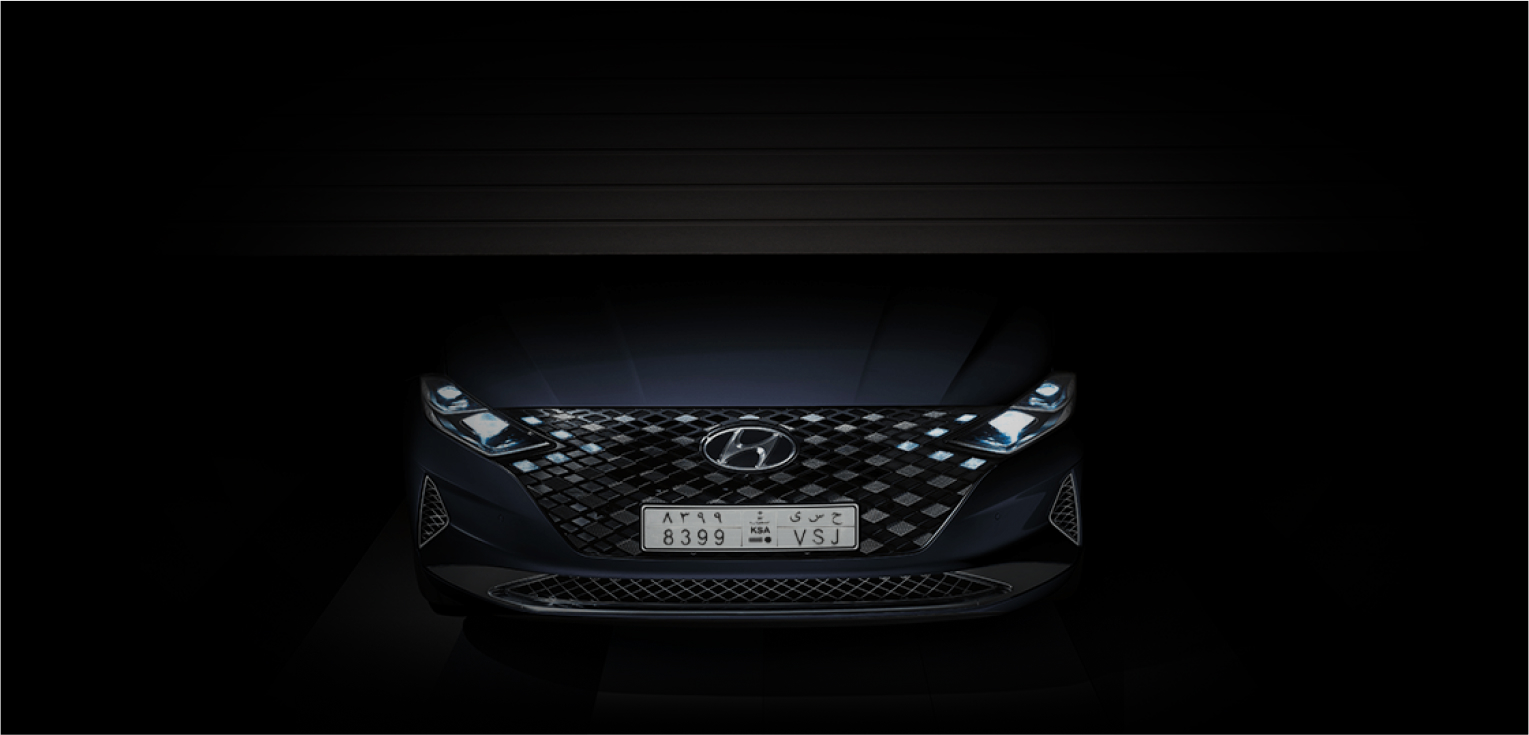
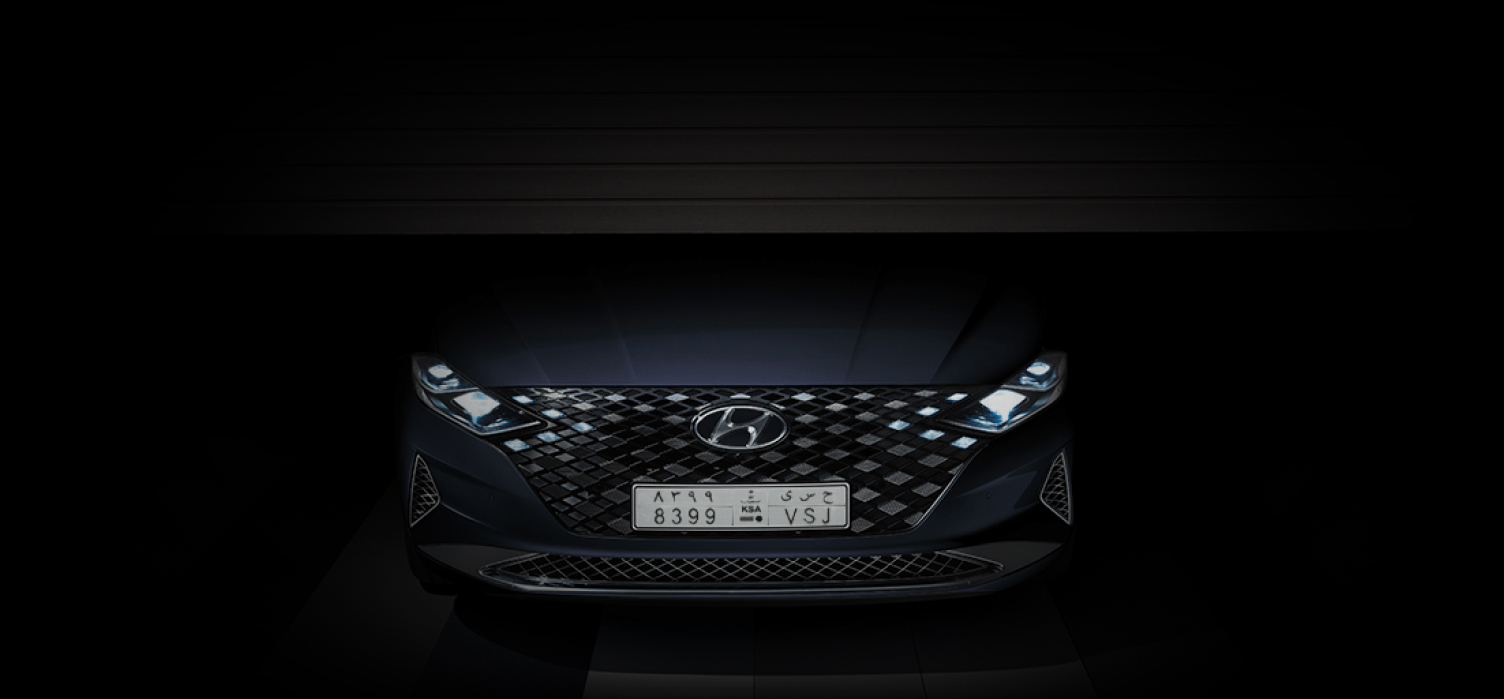
Added adaptation of the block with a timer

diff --git a/Hyudai/css/style.min.css b/Hyudai/css/style.min.css
@@ -1,1 +1,1 @@
-@font-face{font-family:HyundaiHead;font-display:swap;src:url(../fonts/HyundaiSansHeadKRBold.woff) format("woff"),url(../fonts/HyundaiSansHeadKRBold.woff2) format("woff2");font-weight:700;font-style:normal}@font-face{font-family:HyundaiHead;font-display:swap;src:url(../fonts/HyundaiSansHeadKRLight.woff) format("woff"),url(../fonts/HyundaiSansHeadKRLight.woff2) format("woff2");font-weight:300;font-style:normal}@font-face{font-family:HyundaiHead;font-display:swap;src:url(../fonts/HyundaiSansHeadKRRegular.woff) format("woff"),url(../fonts/HyundaiSansHeadKRRegular.woff2) format("woff2");font-weight:400;font-style:normal}@font-face{font-family:HyundaiHead;font-display:swap;src:url(../fonts/HyundaiSansHeadKRMedium.woff) format("woff"),url(../fonts/HyundaiSansHeadKRMedium.woff2) format("woff2");font-weight:500;font-style:normal}@font-face{font-family:HyundaiText;font-display:swap;src:url(../fonts/HyundaiSansTextKRBold.woff) format("woff"),url(../fonts/HyundaiSansTextKRBold.woff2) format("woff2");font-weight:700;font-style:normal}@font-face{font-family:HyundaiText;font-display:swap;src:url(../fonts/HyundaiSansTextKRMedium.woff) format("woff"),url(../fonts/HyundaiSansTextKRMedium.woff2) format("woff2");font-weight:500;font-style:normal}@font-face{font-family:HyundaiText;font-display:swap;src:url(../fonts/HyundaiSansTextKRRegular.woff) format("woff"),url(../fonts/HyundaiSansTextKRRegular.woff2) format("woff2");font-weight:400;font-style:normal}*{padding:0;margin:0;border:0}*,:after,:before{-webkit-box-sizing:border-box;box-sizing:border-box}:active,:focus{outline:0}a:active,a:focus{outline:0}aside,footer,header,nav{display:block}body,html{height:100%;width:100%;font-size:100%;line-height:1;font-size:14px;-ms-text-size-adjust:100%;-moz-text-size-adjust:100%;-webkit-text-size-adjust:100%}button,input,textarea{font-family:inherit}input::-ms-clear{display:none}button{cursor:pointer}button::-moz-focus-inner{padding:0;border:0}a,a:visited{text-decoration:none}a:hover{text-decoration:none}ul li{list-style:none}img{vertical-align:top}h1,h2,h3,h4,h5,h6{font-size:inherit;font-weight:400}.title{font-family:HyundaiHead;font-size:50px;font-weight:700;line-height:62px}.subtitle{font-family:HyundaiHead;font-size:24px;font-weight:400;line-height:30px}body{font-family:HyundaiText,sans-serif;font-size:18px;line-height:21px;color:#000;overflow-x:hidden}.container{max-width:1120px;margin:0 auto;padding:0 20px;position:relative}.container__big{max-width:1240px}.header{padding:20px 0}.header__row{display:-webkit-box;display:-ms-flexbox;display:flex;-webkit-box-pack:justify;-ms-flex-pack:justify;justify-content:space-between;-webkit-box-align:center;-ms-flex-align:center;align-items:center}.language{display:-webkit-box;display:-ms-flexbox;display:flex;text-transform:uppercase;font-weight:500}.language__ru{margin:0 10px;cursor:pointer}.language__ru::after{content:'|';width:100%;height:100%;margin-left:10px;color:#d8d8d8;cursor:auto}.language__ar{cursor:pointer}.language__active{color:#1385b7}.hero{position:relative;background-color:#032d5d}.hero video{min-width:100%;min-height:320px;width:100%;height:auto;-o-object-fit:cover;object-fit:cover}.hero__text{position:absolute;top:30px;width:100%;color:#fff}.hero__title{padding-bottom:8px}.hero__callback{position:absolute;bottom:80px;right:80px;padding:11px 14px 11px 20px;background-color:#127eb2;border-radius:100px}.hero__callback img{width:29px;height:auto}.sticker{position:absolute;bottom:80px;padding:15px;font-size:14px;line-height:21px;background-color:#032d5d;color:#fff}.sticker__name{font-weight:500;font-size:18px;line-height:23px}.sticker__price span{font-weight:500;font-size:26px;line-height:33px}.main-form{padding:30px 0;background-color:#032d5d}.main-form__form{display:-webkit-box;display:-ms-flexbox;display:flex;-webkit-box-pack:justify;-ms-flex-pack:justify;justify-content:space-between;-webkit-box-align:end;-ms-flex-align:end;align-items:flex-end}.main-form__form input,.main-form__form select{color:#fff;background-color:#032d5d;padding-bottom:10px;border-bottom:1px solid rgba(255,255,255,.1);font-size:16px;line-height:21px}.main-form__form input::-webkit-input-placeholder{color:#fff;font-size:16px;line-height:21px}.main-form__form input::-moz-placeholder{color:#fff;font-size:16px;line-height:21px}.main-form__form input:-ms-input-placeholder{color:#fff;font-size:16px;line-height:21px}.main-form__form input::-ms-input-placeholder{color:#fff;font-size:16px;line-height:21px}.main-form__form input::placeholder{color:#fff;font-size:16px;line-height:21px}.main-form__form select{padding-right:120px;-webkit-appearance:none;-moz-appearance:none;appearance:none;background:#032d5d url(../img/icons/arrow.png) right center no-repeat}.main-form__form input[type=submit]{padding:15px 40px;color:#032d5d;background-color:#fff}.location{display:none}.features{padding:50px 0;background-color:#f6f3f2}.features__row{display:-webkit-box;display:-ms-flexbox;display:flex;-webkit-box-pack:justify;-ms-flex-pack:justify;justify-content:space-between;-webkit-box-align:center;-ms-flex-align:center;align-items:center}.features__row .features__item:nth-child(1){margin-right:10px}.features__item{position:relative;width:100%;padding-left:40px;margin-bottom:25px;text-align:left}.features__item::before{content:'';position:absolute;top:50%;left:0;width:24px;height:24px;-webkit-transform:translateY(-50%);-ms-transform:translateY(-50%);transform:translateY(-50%);background:url(../img/icons/icons.svg#check) center no-repeat}.premiere{padding-top:90px;padding-bottom:110px;background-color:#000}.premiere__title{color:#fff;text-align:center}.premiere__title-bottom{background:-o-linear-gradient(45deg,#80059f,#fe7139),-o-linear-gradient(135deg,#e4072a,#fe7139);background:linear-gradient(45deg,#80059f,#fe7139),linear-gradient(-45deg,#e4072a,#fe7139);-webkit-background-clip:text;-webkit-text-fill-color:transparent}.premiere__timer{min-height:734px;background:url(../img/timer-bg.jpg) center no-repeat}.timer{display:-webkit-box;display:-ms-flexbox;display:flex;-webkit-box-pack:center;-ms-flex-pack:center;justify-content:center;-webkit-box-align:start;-ms-flex-align:start;align-items:flex-start;padding-top:75px;font-size:86px;font-weight:700;color:#fff}.timer div:nth-child(n){position:relative;padding:0 37px}.timer div:nth-child(n)::after{content:'';position:absolute;top:50%;right:0;width:11px;height:43px;-webkit-transform:translateY(-50%);-ms-transform:translateY(-50%);transform:translateY(-50%);background:url(../img/icons/icons.svg#colon) center/200% no-repeat}.timer div:nth-child(n)::before{position:absolute;bottom:-50px;left:50%;-webkit-transform:translateX(-50%);-ms-transform:translateX(-50%);transform:translateX(-50%);font-size:18px;font-weight:400;color:rgba(255,255,255,.5)}.timer__days::before{content:'days'}.timer__hours::before{content:'hours'}.timer__min::before{content:'min'}.timer__sec::before{content:'sec'}.timer__sec::after{display:none}.text-premiere__row{font-size:24px;line-height:30px;text-align:center;color:#fff}.text-premiere__row span{color:#7e8183;line-height:62px}.text-premiere__link{margin-left:60px;color:#fff;border-bottom:2px solid #1385b7}.exterior{padding:100px 0;text-align:center}.exterior__title{margin-bottom:10px}.exterior__subtitle{margin:0 auto 50px;max-width:760px}.exterior-container{width:100%;height:auto}.exterior-slide{max-width:1080px;width:100%;text-align:center;font-size:18px;background:#ccc}.exterior-slide img{height:auto;width:100%}.exterior-scrollbar{margin:30px auto 0;max-width:1080px;width:93%;height:4px;background:#e2dfde}.exterior-scrollbar-drag{background:#032d5d}.interior{padding:100px 0;background-color:#f6f3f2}.interior__title{margin-bottom:10px;text-align:center}.interior__subtitle{max-width:760px;margin:0 auto 50px;text-align:center}.interior__slider-top{width:100%;display:-webkit-box;display:-ms-flexbox;display:flex;-webkit-box-pack:center;-ms-flex-pack:center;justify-content:center}.interior__slider-top .image-slider{position:relative;display:inline-block;overflow:hidden}.interior__slider-top .image-slider div{position:absolute;top:0;bottom:0;left:0;width:50%;overflow:hidden;max-width:100%}.interior__slider-top .image-slider input[type=range]{position:absolute;top:50%;width:100%;margin:0;-webkit-transform:translateY(-50%);-ms-transform:translateY(-50%);transform:translateY(-50%);overflow:hidden;-webkit-appearance:none;background-color:transparent}.interior__slider-top .image-slider input[type=range]::-webkit-slider-thumb{width:64px;-webkit-appearance:none;height:64px;cursor:ew-resize;background:#032d5d url(../img/icons/slider.png) center no-repeat;border-radius:100%}.interior__slider-top .image-slider>img{display:block;-webkit-user-select:none;-moz-user-select:none;-ms-user-select:none;user-select:none;max-width:100%}@media (max-width:1080px){.interior__slider-top .image-slider{width:768px}.interior__slider-top .image-slider div img{width:768px}}@media (max-width:768px){.title{font-size:28px;line-height:30px}.subtitle{font-size:15px;line-height:24px}.language__ru{margin:0 5px}.language__ru::after{content:'/';color:#000;margin-left:5px}.language{font-size:14px}.hero__callback{display:none}.sticker{font-size:12px;padding-bottom:0}.sticker__name{font-size:14px;line-height:18px}.sticker__price span{font-size:24px;line-height:30px}.sticker{position:static;text-align:center}.main-form__form{-webkit-box-orient:vertical;-webkit-box-direction:normal;-ms-flex-direction:column;flex-direction:column;-webkit-box-align:inherit;-ms-flex-align:inherit;align-items:inherit}.main-form__form input:nth-child(1){margin-top:0}.main-form__form input,.main-form__form select{margin-top:30px}.features{padding:40px 0}.features__row .features__item:nth-child(1){margin-right:0}.features__row{-webkit-box-orient:vertical;-webkit-box-direction:normal;-ms-flex-direction:column;flex-direction:column}.features__item{font-size:16px}.premiere{display:none}.exterior{padding:70px 0}.exterior__subtitle{margin-bottom:40px}.exterior-container{width:93%}.interior{padding:55px 0}.interior__slider-top .image-slider{width:480px}.interior__slider-top .image-slider div img{width:480px}.interior__slider-top .image-slider input[type=range]::-webkit-slider-thumb{width:50px;height:50px}}@media (max-width:480px){.interior__slider-top .image-slider{width:320px}.interior__slider-top .image-slider div img{width:320px}.interior__slider-top .image-slider input[type=range]::-webkit-slider-thumb{width:40px;height:40px}}
+@font-face{font-family:HyundaiHead;font-display:swap;src:url(../fonts/HyundaiSansHeadKRBold.woff) format("woff"),url(../fonts/HyundaiSansHeadKRBold.woff2) format("woff2");font-weight:700;font-style:normal}@font-face{font-family:HyundaiHead;font-display:swap;src:url(../fonts/HyundaiSansHeadKRLight.woff) format("woff"),url(../fonts/HyundaiSansHeadKRLight.woff2) format("woff2");font-weight:300;font-style:normal}@font-face{font-family:HyundaiHead;font-display:swap;src:url(../fonts/HyundaiSansHeadKRRegular.woff) format("woff"),url(../fonts/HyundaiSansHeadKRRegular.woff2) format("woff2");font-weight:400;font-style:normal}@font-face{font-family:HyundaiHead;font-display:swap;src:url(../fonts/HyundaiSansHeadKRMedium.woff) format("woff"),url(../fonts/HyundaiSansHeadKRMedium.woff2) format("woff2");font-weight:500;font-style:normal}@font-face{font-family:HyundaiText;font-display:swap;src:url(../fonts/HyundaiSansTextKRBold.woff) format("woff"),url(../fonts/HyundaiSansTextKRBold.woff2) format("woff2");font-weight:700;font-style:normal}@font-face{font-family:HyundaiText;font-display:swap;src:url(../fonts/HyundaiSansTextKRMedium.woff) format("woff"),url(../fonts/HyundaiSansTextKRMedium.woff2) format("woff2");font-weight:500;font-style:normal}@font-face{font-family:HyundaiText;font-display:swap;src:url(../fonts/HyundaiSansTextKRRegular.woff) format("woff"),url(../fonts/HyundaiSansTextKRRegular.woff2) format("woff2");font-weight:400;font-style:normal}*{padding:0;margin:0;border:0}*,:after,:before{-webkit-box-sizing:border-box;box-sizing:border-box}:active,:focus{outline:0}a:active,a:focus{outline:0}aside,footer,header,nav{display:block}body,html{height:100%;width:100%;font-size:100%;line-height:1;font-size:14px;-ms-text-size-adjust:100%;-moz-text-size-adjust:100%;-webkit-text-size-adjust:100%}button,input,textarea{font-family:inherit}input::-ms-clear{display:none}button{cursor:pointer}button::-moz-focus-inner{padding:0;border:0}a,a:visited{text-decoration:none}a:hover{text-decoration:none}ul li{list-style:none}img{vertical-align:top}h1,h2,h3,h4,h5,h6{font-size:inherit;font-weight:400}.title{font-family:HyundaiHead;font-size:50px;font-weight:700;line-height:62px}.subtitle{font-family:HyundaiHead;font-size:24px;font-weight:400;line-height:30px}body{font-family:HyundaiText,sans-serif;font-size:18px;line-height:21px;color:#000;overflow-x:hidden}.container{max-width:1120px;margin:0 auto;padding:0 20px;position:relative}.container__big{max-width:1240px}.header{padding:20px 0}.header__row{display:-webkit-box;display:-ms-flexbox;display:flex;-webkit-box-pack:justify;-ms-flex-pack:justify;justify-content:space-between;-webkit-box-align:center;-ms-flex-align:center;align-items:center}.language{display:-webkit-box;display:-ms-flexbox;display:flex;text-transform:uppercase;font-weight:500}.language__ru{margin:0 10px;cursor:pointer}.language__ru::after{content:'|';width:100%;height:100%;margin-left:10px;color:#d8d8d8;cursor:auto}.language__ar{cursor:pointer}.language__active{color:#1385b7}.hero{position:relative;background-color:#032d5d}.hero video{min-width:100%;min-height:320px;width:100%;height:auto;-o-object-fit:cover;object-fit:cover}.hero__text{position:absolute;top:30px;width:100%;color:#fff}.hero__title{padding-bottom:8px}.hero__callback{position:absolute;bottom:80px;right:80px;padding:11px 14px 11px 20px;background-color:#127eb2;border-radius:100px}.hero__callback img{width:29px;height:auto}.sticker{position:absolute;bottom:80px;padding:15px;font-size:14px;line-height:21px;background-color:#032d5d;color:#fff}.sticker__name{font-weight:500;font-size:18px;line-height:23px}.sticker__price span{font-weight:500;font-size:26px;line-height:33px}.main-form{padding:30px 0;background-color:#032d5d}.main-form__form{display:-webkit-box;display:-ms-flexbox;display:flex;-webkit-box-pack:justify;-ms-flex-pack:justify;justify-content:space-between;-webkit-box-align:end;-ms-flex-align:end;align-items:flex-end}.main-form__form input,.main-form__form select{color:#fff;background-color:#032d5d;padding-bottom:10px;border-bottom:1px solid rgba(255,255,255,.1);font-size:16px;line-height:21px}.main-form__form input::-webkit-input-placeholder{color:#fff;font-size:16px;line-height:21px}.main-form__form input::-moz-placeholder{color:#fff;font-size:16px;line-height:21px}.main-form__form input:-ms-input-placeholder{color:#fff;font-size:16px;line-height:21px}.main-form__form input::-ms-input-placeholder{color:#fff;font-size:16px;line-height:21px}.main-form__form input::placeholder{color:#fff;font-size:16px;line-height:21px}.main-form__form select{padding-right:120px;-webkit-appearance:none;-moz-appearance:none;appearance:none;background:#032d5d url(../img/icons/arrow.png) right center no-repeat}.main-form__form input[type=submit]{padding:15px 40px;color:#032d5d;background-color:#fff}.location{display:none}.features{padding:50px 0;background-color:#f6f3f2}.features__row{display:-webkit-box;display:-ms-flexbox;display:flex;-webkit-box-pack:justify;-ms-flex-pack:justify;justify-content:space-between;-webkit-box-align:center;-ms-flex-align:center;align-items:center}.features__row .features__item:nth-child(1){margin-right:10px}.features__item{position:relative;width:100%;padding-left:40px;margin-bottom:25px;text-align:left}.features__item::before{content:'';position:absolute;top:50%;left:0;width:24px;height:24px;-webkit-transform:translateY(-50%);-ms-transform:translateY(-50%);transform:translateY(-50%);background:url(../img/icons/icons.svg#check) center no-repeat}.premiere{padding-top:90px;padding-bottom:110px;background-color:#000}.premiere__title{color:#fff;text-align:center}.premiere__title-bottom{background:-o-linear-gradient(45deg,#80059f,#fe7139),-o-linear-gradient(135deg,#e4072a,#fe7139);background:linear-gradient(45deg,#80059f,#fe7139),linear-gradient(-45deg,#e4072a,#fe7139);-webkit-background-clip:text;-webkit-text-fill-color:transparent}.premiere__timer{min-height:734px;background:url(../img/timer-bg.jpg) center 0 no-repeat}.timer{display:-webkit-box;display:-ms-flexbox;display:flex;-webkit-box-pack:center;-ms-flex-pack:center;justify-content:center;-webkit-box-align:start;-ms-flex-align:start;align-items:flex-start;padding-top:75px;font-size:86px;font-weight:700;color:#fff}.timer div:nth-child(n){position:relative;padding:0 37px}.timer div:nth-child(n)::after{content:'';position:absolute;top:50%;right:0;width:11px;height:43px;-webkit-transform:translateY(-50%);-ms-transform:translateY(-50%);transform:translateY(-50%);background:url(../img/icons/icons.svg#colon) center/200% no-repeat}.timer div:nth-child(n)::before{position:absolute;bottom:-50px;left:50%;-webkit-transform:translateX(-50%);-ms-transform:translateX(-50%);transform:translateX(-50%);font-size:18px;font-weight:400;color:rgba(255,255,255,.5)}.timer__days::before{content:'days'}.timer__hours::before{content:'hours'}.timer__min::before{content:'min'}.timer__sec::before{content:'sec'}.timer__sec::after{display:none}.text-premiere__row{font-size:24px;line-height:30px;text-align:center;color:#fff}.text-premiere__row span{color:#7e8183;line-height:62px}.text-premiere__link{margin-left:60px;color:#fff;border-bottom:2px solid #1385b7}.exterior{padding:100px 0;text-align:center}.exterior__title{margin-bottom:10px}.exterior__subtitle{margin:0 auto 50px;max-width:760px}.exterior-container{width:100%;height:auto}.exterior-slide{max-width:1080px;width:100%;text-align:center;font-size:18px;background:#ccc}.exterior-slide img{height:auto;width:100%}.exterior-scrollbar{margin:30px auto 0;max-width:1080px;width:93%;height:4px;background:#e2dfde}.exterior-scrollbar-drag{background:#032d5d}.interior{padding:100px 0;background-color:#f6f3f2}.interior__title{margin-bottom:10px;text-align:center}.interior__subtitle{max-width:760px;margin:0 auto 50px;text-align:center}.interior__slider-top{width:100%;display:-webkit-box;display:-ms-flexbox;display:flex;-webkit-box-pack:center;-ms-flex-pack:center;justify-content:center}.interior__slider-top .image-slider{position:relative;display:inline-block;overflow:hidden}.interior__slider-top .image-slider div{position:absolute;top:0;bottom:0;left:0;width:50%;overflow:hidden;max-width:100%}.interior__slider-top .image-slider input[type=range]{position:absolute;top:50%;width:100%;margin:0;-webkit-transform:translateY(-50%);-ms-transform:translateY(-50%);transform:translateY(-50%);overflow:hidden;-webkit-appearance:none;background-color:transparent}.interior__slider-top .image-slider input[type=range]::-webkit-slider-thumb{width:64px;-webkit-appearance:none;height:64px;cursor:ew-resize;background:#032d5d url(../img/icons/slider.png) center no-repeat;border-radius:100%}.interior__slider-top .image-slider>img{display:block;-webkit-user-select:none;-moz-user-select:none;-ms-user-select:none;user-select:none;max-width:100%}@media (max-width:1080px){.interior__slider-top .image-slider{width:768px}.interior__slider-top .image-slider div img{width:768px}}@media (max-width:768px){.title{font-size:28px;line-height:30px}.subtitle{font-size:15px;line-height:24px}.language__ru{margin:0 5px}.language__ru::after{content:'/';color:#000;margin-left:5px}.language{font-size:14px}.hero__callback{display:none}.sticker{font-size:12px;padding-bottom:0}.sticker__name{font-size:14px;line-height:18px}.sticker__price span{font-size:24px;line-height:30px}.sticker{position:static;text-align:center}.main-form__form{-webkit-box-orient:vertical;-webkit-box-direction:normal;-ms-flex-direction:column;flex-direction:column;-webkit-box-align:inherit;-ms-flex-align:inherit;align-items:inherit}.main-form__form input:nth-child(1){margin-top:0}.main-form__form input,.main-form__form select{margin-top:30px}.features{padding:40px 0}.features__row .features__item:nth-child(1){margin-right:0}.features__row{-webkit-box-orient:vertical;-webkit-box-direction:normal;-ms-flex-direction:column;flex-direction:column}.features__item{font-size:16px}.premiere{padding:70px 0}.premiere__timer{background-size:contain;background-position:0 123px;min-height:500px}.timer{font-size:50px;margin-top:-20px}.timer div:nth-child(n){padding:0 20px 0 10px}.text-premiere__row{display:-webkit-box;display:-ms-flexbox;display:flex;-webkit-box-orient:vertical;-webkit-box-direction:normal;-ms-flex-direction:column;flex-direction:column;-webkit-box-align:center;-ms-flex-align:center;align-items:center}.text-premiere__link{margin:0 0 10px 0}.exterior{padding:70px 0}.exterior__subtitle{margin-bottom:40px}.exterior-container{width:93%}.interior{padding:55px 0}.interior__slider-top .image-slider{width:480px}.interior__slider-top .image-slider div img{width:480px}.interior__slider-top .image-slider input[type=range]::-webkit-slider-thumb{width:50px;height:50px}}@media (max-width:480px){.premiere__timer{min-height:340px}.interior__slider-top .image-slider{width:320px}.interior__slider-top .image-slider div img{width:320px}.interior__slider-top .image-slider input[type=range]::-webkit-slider-thumb{width:40px;height:40px}}

diff --git a/#src/sass/_premiere.sass b/#src/sass/_premiere.sass
@@ -2,14 +2,14 @@
   padding-top: 90px
   padding-bottom: 110px
   background-color: $text-color-dark
-
   @media(max-width: 768px)
-    display: none
+    padding: 70px 0
 
   // .premiere__title
   &__title
     color: $text-color-light
     text-align: center
+
     // .premiere__title-bottom
     &-bottom
       background: linear-gradient(45deg, #80059F, #FE7139), linear-gradient(-45deg, #E4072A, #FE7139)
@@ -20,13 +20,15 @@
   // .premiere__timer
   &__timer
     min-height: 734px
-    background: url('../img/timer-bg.jpg')center no-repeat
+    background: url('../img/timer-bg.jpg') center 0 no-repeat
 
-  // .premiere__text
-  &__text
+    @media(max-width: 768px)
+      background-size: contain
+      background-position: 0 123px
+      min-height: 500px
 
-
-
+    @media(max-width: 480px)
+      min-height: 340px
 
 .timer
   display: flex
@@ -37,9 +39,16 @@
   font-weight: 700
   color: $text-color-light
 
+  @media(max-width: 768px)
+    font-size: 50px
+    margin-top: -20px
+
   div:nth-child(n)
     position: relative
     padding: 0 37px
+
+    @media(max-width: 768px)
+      padding: 0 20px 0 10px
 
     &::after
       content: ''
@@ -84,12 +93,18 @@
 
 
 .text-premiere
+
   // .text-premiere__row
   &__row
     font-size: 24px
     line-height: 30px
     text-align: center
     color: $text-color-light
+
+    @media(max-width: 768px)
+      display: flex
+      flex-direction: column
+      align-items: center
 
     span
       color: #7E8183
@@ -100,3 +115,6 @@
     margin-left: 60px
     color: $text-color-light
     border-bottom: 2px solid #1385B7
+
+    @media(max-width: 768px)
+      margin: 0 0 10px 0

diff --git a/Hyudai/css/style.css b/Hyudai/css/style.css
@@ -419,7 +419,7 @@ body {
 
 .premiere__timer {
   min-height: 734px;
-  background: url("../img/timer-bg.jpg") center no-repeat;
+  background: url("../img/timer-bg.jpg") center 0 no-repeat;
 }
 
 .timer {
@@ -721,7 +721,39 @@ body {
   }
 
   .premiere {
-    display: none;
+    padding: 70px 0;
+  }
+
+  .premiere__timer {
+    background-size: contain;
+    background-position: 0 123px;
+    min-height: 500px;
+  }
+
+  .timer {
+    font-size: 50px;
+    margin-top: -20px;
+  }
+
+  .timer div:nth-child(n) {
+    padding: 0 20px 0 10px;
+  }
+
+  .text-premiere__row {
+    display: -webkit-box;
+    display: -ms-flexbox;
+    display: flex;
+    -webkit-box-orient: vertical;
+    -webkit-box-direction: normal;
+        -ms-flex-direction: column;
+            flex-direction: column;
+    -webkit-box-align: center;
+        -ms-flex-align: center;
+            align-items: center;
+  }
+
+  .text-premiere__link {
+    margin: 0 0 10px 0;
   }
 
   .exterior {
@@ -755,6 +787,10 @@ body {
 }
 
 @media (max-width: 480px) {
+  .premiere__timer {
+    min-height: 340px;
+  }
+
   .interior__slider-top .image-slider {
     width: 320px;
   }
